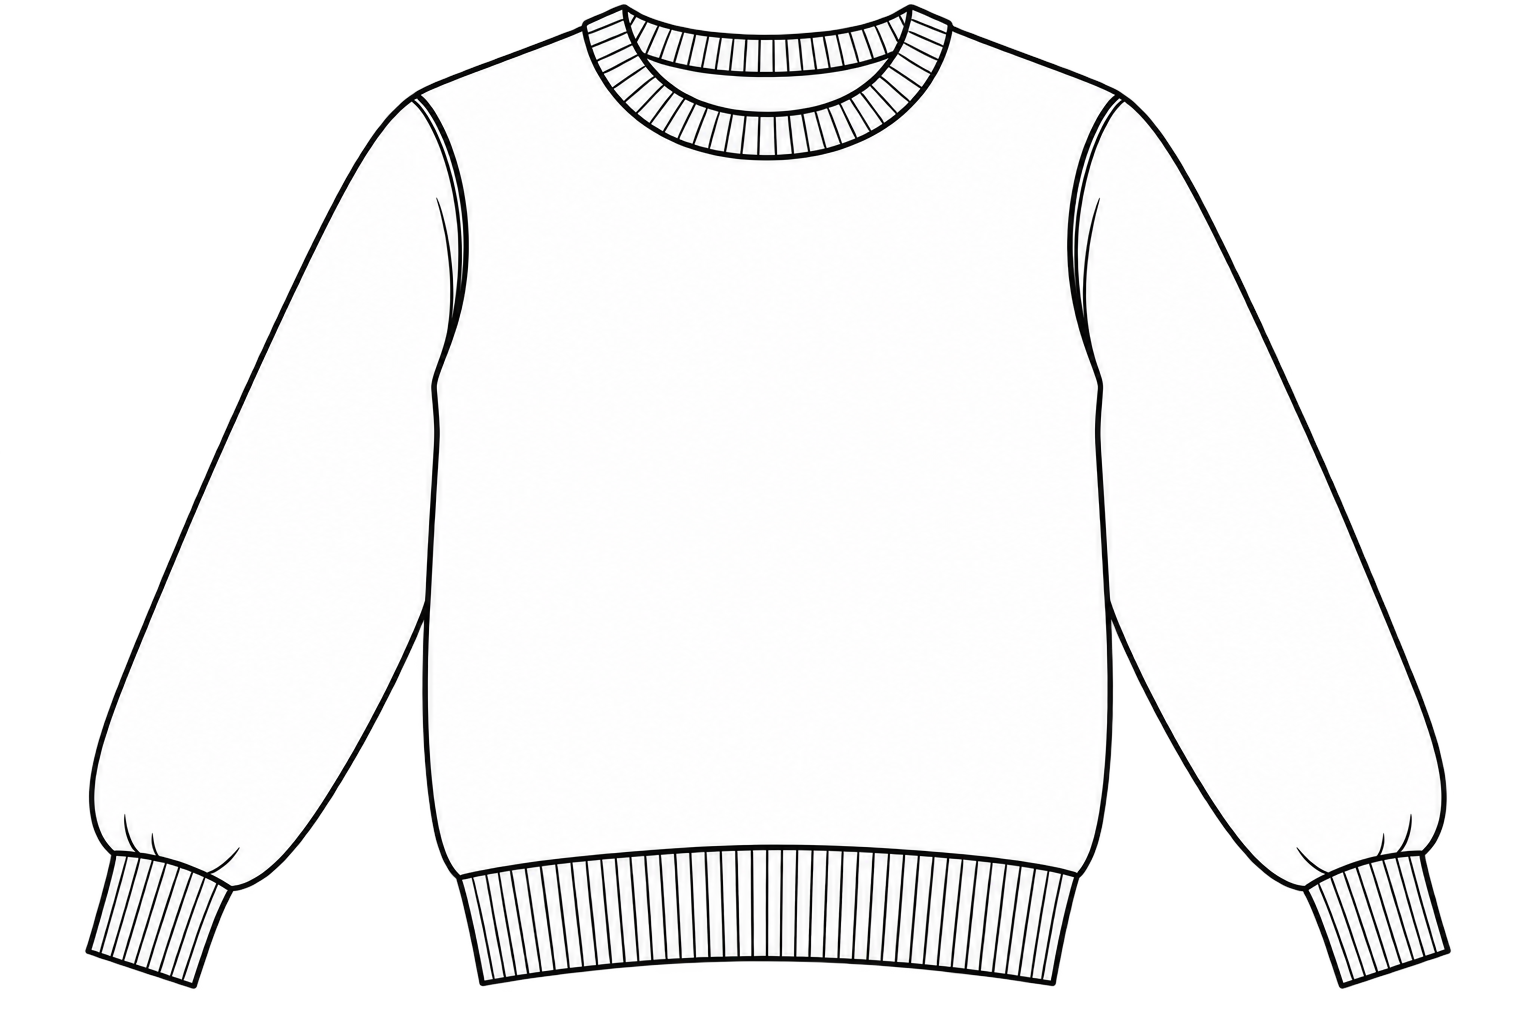
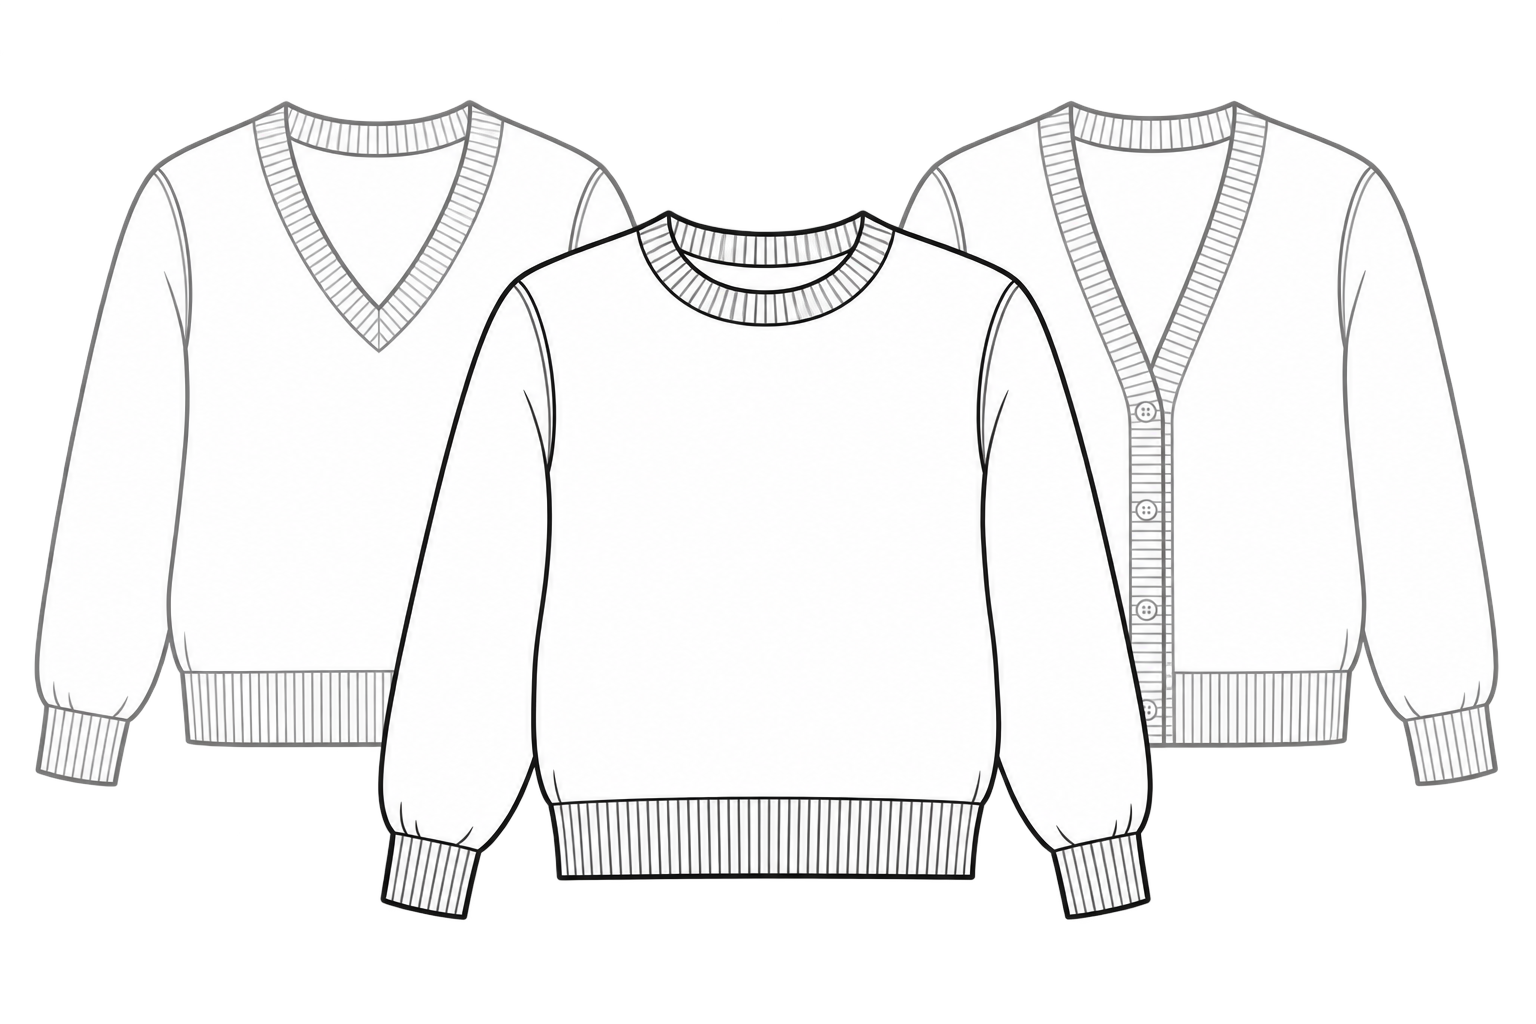
Use the new transparent Set-In Sleeve and Raglan drawings on the catalog and landing page.

diff --git a/src/lib/patterns/setInSleevePatternOutput.test.ts b/src/lib/patterns/setInSleevePatternOutput.test.ts
@@ -304,9 +304,13 @@ describe("set-in sleeve saved patterns, print, and membership", () => {
     expect(readFileSync("src/pages/patterns/set-in-sleeve/builder.astro", "utf8")).toContain(
       'data-express-review-href="/patterns/set-in-sleeve/pattern/?generated=1"',
     );
-    expect(readFileSync("src/lib/patterns/setInSleevePatternLanding.ts", "utf8")).toContain(
-      "/images/patterns/set-in.webp",
-    );
+    expect(catalog).toContain("'/images/patterns/set-in.png'");
+    expect(catalog).toContain("'/images/patterns/raglan.png'");
+    expect(catalog).not.toContain("set-in.webp");
+    expect(catalog).not.toContain("raglan.webp");
+    const landing = readFileSync("src/lib/patterns/setInSleevePatternLanding.ts", "utf8");
+    expect(landing).toContain("/images/patterns/set-in.png");
+    expect(landing).not.toContain("set-in.webp");
     expect(readFileSync("src/pages/patterns/set-in-sleeve/index.astro", "utf8")).toContain(
       "SET_IN_SLEEVE_PATTERN_BUILDER_LANDING",
     );

diff --git a/src/lib/patterns/setInSleevePatternLanding.ts b/src/lib/patterns/setInSleevePatternLanding.ts
@@ -11,7 +11,7 @@ export const SET_IN_SLEEVE_PATTERN_LANDING_PATH = "/patterns/set-in-sleeve";
 export const SET_IN_SLEEVE_PATTERN_LANDING_CANONICAL_URL =
   "https://knititnow.com/patterns/set-in-sleeve";
 
-export const SET_IN_SLEEVE_PATTERN_LANDING_IMAGE_SRC = "/images/patterns/set-in.webp";
+export const SET_IN_SLEEVE_PATTERN_LANDING_IMAGE_SRC = "/images/patterns/set-in.png";
 
 export const SET_IN_SLEEVE_PATTERN_BUILDER_LANDING: PatternBuilderLandingContent = {
   patternName: "Set-In Sleeve Sweater Pattern Builder",
